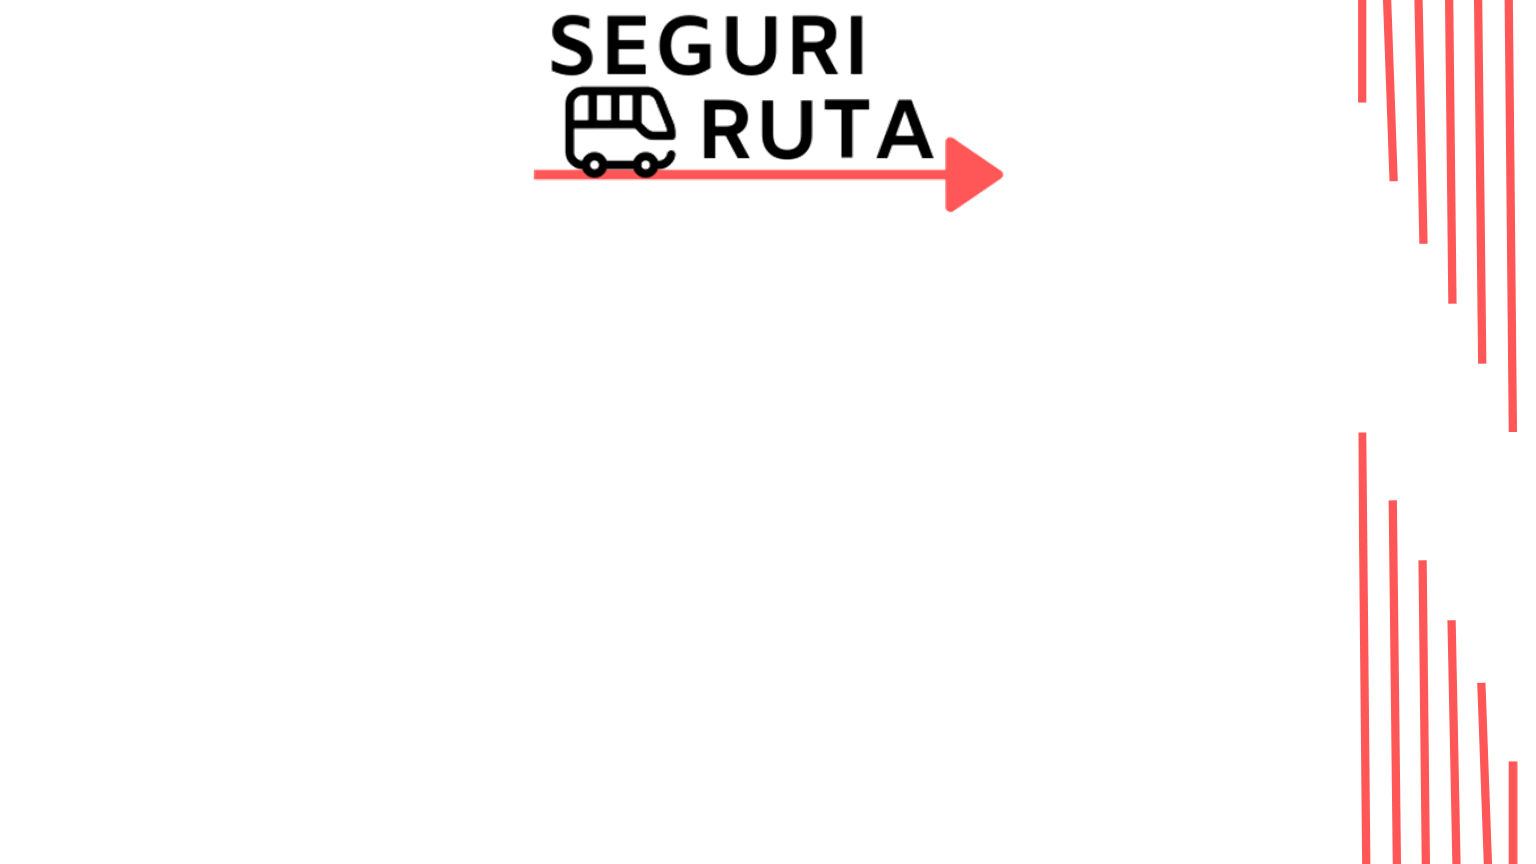
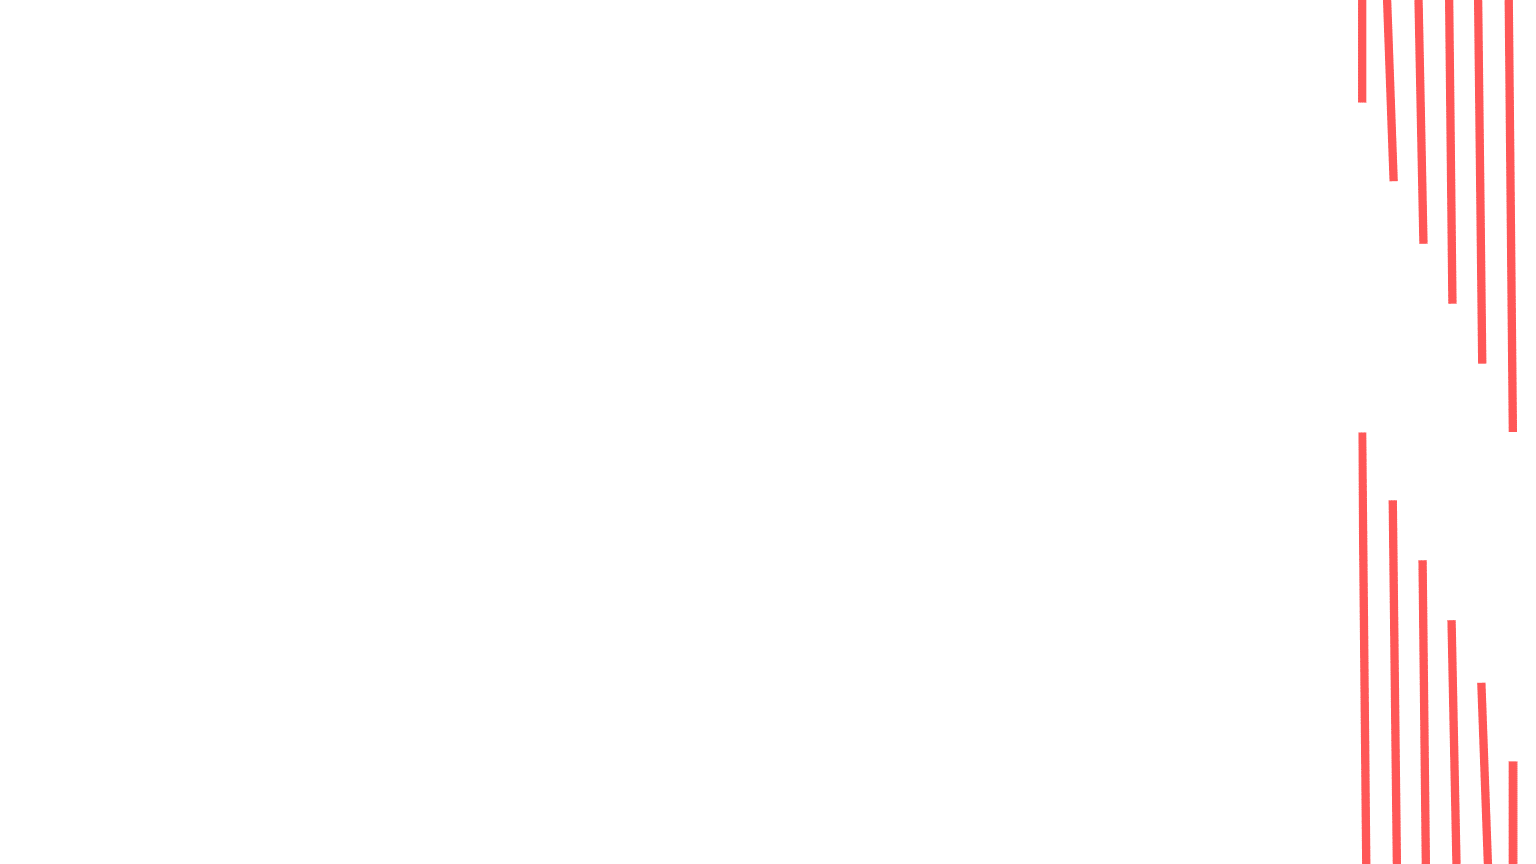
no funciona el bg

Changed region(s): [[0.3438, 0.0, 0.6562, 0.25]]

diff --git a/pages/rutas.vue b/pages/rutas.vue
@@ -1,5 +1,5 @@
 <template>
-    <div class="container">
+    <div class="container second">
         <div class="row justify-content-left">
            <a href="home"><img src="../static/return.png" width="100" height="100"></a>
         </div>
@@ -9,7 +9,7 @@
                 <img src="../static/logo.png" width="250" height="150">
             </div>
         </div>
-
+        
         <br>
         <br>
 
@@ -76,13 +76,6 @@ export default {
 .sombra {
   box-shadow: 0 2px 6px rgba(39, 39, 39, 0.13), 0 2px 6px rgba(39, 39, 39, 0.13);
 }
-.second {
- background-image: url("../static/bg2.png");
-
- background-position: 65% 10%;
- background-color: #ffffff;
- background-size: auto;
- }
 
  .col-10{
  text-align: center;
@@ -101,5 +94,12 @@ export default {
 
 .btn-dark {
   background-color: black;
+}
+
+.second{
+    background-image: url("../static/bg5.png");
+    height: 500px;
+    widows: 10px;
+    background-color: white;
 }
 </style>
